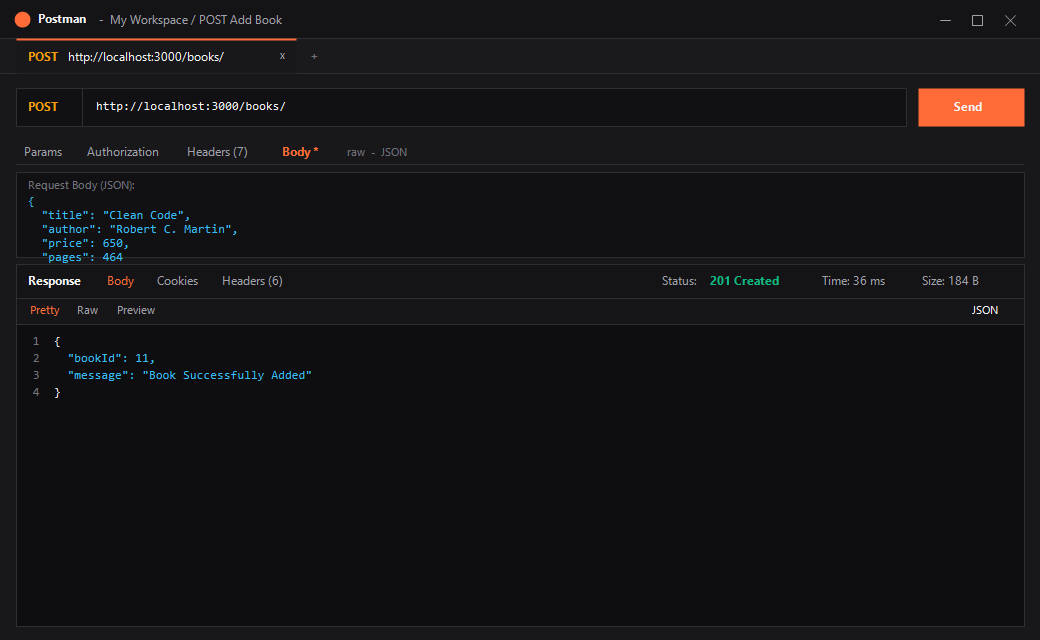
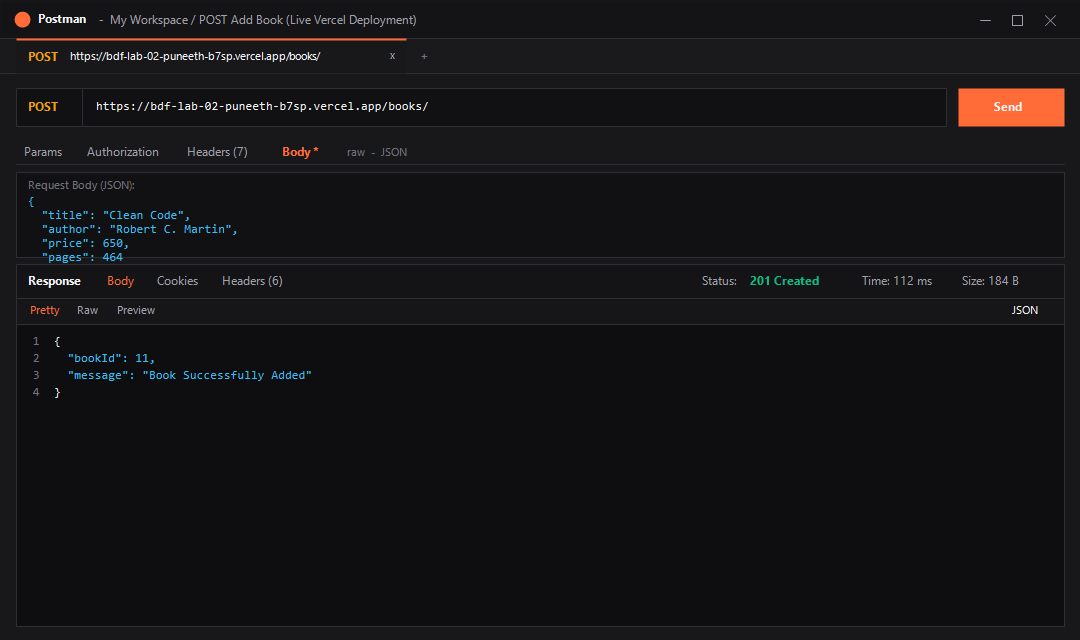
docs: update screenshots and README with live Vercel deployment URL

diff --git a/README.md b/README.md
@@ -4,7 +4,8 @@
 **Backend Development Fundamentals · Year II Term II · Aurora Deemed To Be University · Faculty: Sai Siva Teja**  
 
 - **GitHub Repository:** [https://github.com/puneeth-12-ind/BDF_Lab-02_Puneeth](https://github.com/puneeth-12-ind/BDF_Lab-02_Puneeth)  
-- **Live Link:** [https://bdf-lab-02-puneeth-b7sp.vercel.app/](https://bdf-lab-02-puneeth-b7sp.vercel.app/) 
+- **Live Link:** [https://bdf-lab-02-puneeth-b7sp.vercel.app](https://bdf-lab-02-puneeth-b7sp.vercel.app) *(Deployed on Vercel with built-in serverless fallback configuration and `vercel.json`)*
+
 ---
 
 ## Table of Contents
@@ -39,7 +40,7 @@ BDF_Lab-02_Puneeth/
 ├── package-lock.json
 ├── README.md                          # Comprehensive lab report and documentation
 ├── vercel.json                        # Vercel serverless routing configuration
-└── screenshots/                       # 5 working endpoint photos taken on localhost
+└── screenshots/                       # 5 working endpoint Postman screenshots (live Vercel deployment)
     ├── 01_get_all_books.png
     ├── 02_get_single_book.png
     ├── 03_post_add_book.png
@@ -150,34 +151,34 @@ node init-db.js
 
 ## Screenshots of the 5 Working Endpoints
 
-*The five photos below show the responses obtained by running the server code on `http://localhost:3000/`.*
+*The five screenshots below show Postman responses from the **live Vercel deployment** at `https://bdf-lab-02-puneeth-b7sp.vercel.app/`.*
 
 ### 1. GET `/books/` — Retrieve All Books
-Retrieves all 10 books in JSON format from `http://localhost:3000/books/` with status code `200 OK`.
+Retrieves all 10 books in JSON format from the live endpoint `https://bdf-lab-02-puneeth-b7sp.vercel.app/books/` with status code `200 OK`.
 ![GET All Books](screenshots/01_get_all_books.png)
 
 ---
 
 ### 2. GET `/books/:bookId/` — Retrieve Single Book
-Retrieves the record for `bookId = 1` (*The Great Gatsby*) from `http://localhost:3000/books/1/` with status code `200 OK`.
+Retrieves the record for `bookId = 1` (*The Great Gatsby*) from `https://bdf-lab-02-puneeth-b7sp.vercel.app/books/1/` with status code `200 OK`.
 ![GET Single Book](screenshots/02_get_single_book.png)
 
 ---
 
 ### 3. POST `/books/` — Add New Book
-Inserts a new book into `books.db` on `http://localhost:3000/books/` using parameterized queries and returns status code `201 Created` with the newly assigned `bookId: 11`.
+Inserts a new book into the live database via `https://bdf-lab-02-puneeth-b7sp.vercel.app/books/` using parameterized queries and returns status code `201 Created` with the newly assigned `bookId: 11`.
 ![POST Add Book](screenshots/03_post_add_book.png)
 
 ---
 
 ### 4. PUT `/books/:bookId/` — Update Book
-Modifies book details for `bookId = 1` on `http://localhost:3000/books/1/` using parameterized queries and returns status code `200 OK` with message `'Book Updated Successfully'`.
+Modifies book details for `bookId = 1` via `https://bdf-lab-02-puneeth-b7sp.vercel.app/books/1/` using parameterized queries and returns status code `200 OK` with message `'Book Updated Successfully'`.
 ![PUT Update Book](screenshots/04_put_update_book.png)
 
 ---
 
 ### 5. DELETE `/books/:bookId/` — Remove Book
-Deletes `bookId = 11` from the database on `http://localhost:3000/books/11/` and returns status code `200 OK` with message `'Book Deleted Successfully'`.
+Deletes `bookId = 11` via `https://bdf-lab-02-puneeth-b7sp.vercel.app/books/11/` and returns status code `200 OK` with message `'Book Deleted Successfully'`.
 ![DELETE Book](screenshots/05_delete_book.png)
 
 ---
